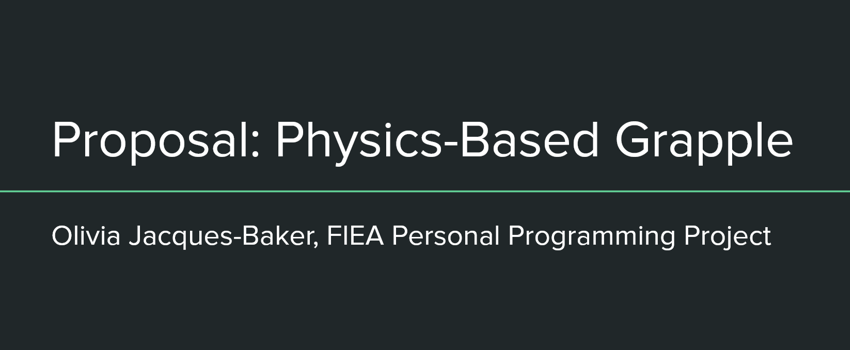
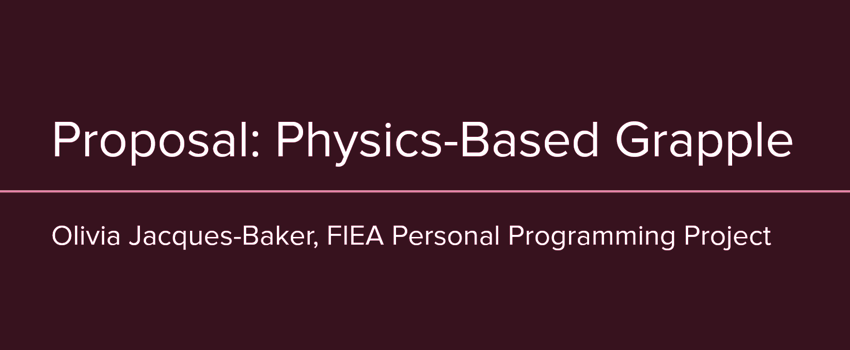
more portfolios, color changes

diff --git a/portfolios/cardAbilities.html b/portfolios/cardAbilities.html
@@ -1,0 +1,88 @@
+<!DOCTYPE html>
+<html lang="en">
+    <head>
+        <meta charset="utf-8" />
+        <meta name="viewport" content="width=device-width, initial-scale=1, shrink-to-fit=no" />
+        <meta name="description" content="" />
+        <meta name="author" content="" />
+        <title>Olivia Jacques-Baker - Game Dev Portfolio</title>
+        <!-- Favicon-->
+        <link rel="icon" type="../image/x-icon" href="../assets/favicon.ico" />
+        <!-- Core theme CSS (includes Bootstrap)-->
+        <link href="../css/styles.css" rel="stylesheet" />
+    </head>
+    <body>
+        <!-- Responsive navbar-->
+        <nav class="navbar navbar-expand-lg navbar-dark bg-dark">
+            <div class="container">
+                <a class="navbar-brand" href="../index.html">Olivia Jacques-Baker</a>
+                <button class="navbar-toggler" type="button" data-bs-toggle="collapse" data-bs-target="#navbarSupportedContent" aria-controls="navbarSupportedContent" aria-expanded="false" aria-label="Toggle navigation"><span class="navbar-toggler-icon"></span></button>
+                <div class="collapse navbar-collapse" id="navbarSupportedContent">
+                    <ul class="navbar-nav ms-auto mb-2 mb-lg-0">
+                        <li class="nav-item"><a class="nav-link active" href="../index.html">Portfolio</a></li>
+                        <li class="nav-item"><a class="nav-link" href="../about.html">About</a></li>
+                        <li class="nav-item"><a class="nav-link" href="../contact.html">Contact</a></li>
+                        <li class="nav-item"><a class="nav-link" aria-current="page" href="../devblog.html">Dev Blog</a></li>
+                    </ul>
+                </div>
+            </div>
+        </nav>
+        <!-- Page content-->
+        <div class="container mt-5">
+            <div class="row">
+                <div class="col-lg-8">
+                    <!-- Post content-->
+                    <article>
+                        <!-- Post header-->
+                        <header class="mb-4">
+                            <!-- Post title-->
+                            <h1 class="fw-bolder mb-1">Modular Card Ability System</h1>
+                            <!-- Post meta content-->
+                            <div class="text-muted fst-italic mb-2">Last worked on in May 2023</div>
+                        </header>
+                </div>
+                <div class="col-lg-8">
+                    <!-- Post content-->
+                    <article>
+                        <!-- Preview image figure-->
+                        <figure class="mb-4"><video class="img-fluid rounded" controls>
+                             <source src="../assets/cat.mp4" type="video/mp4">
+                             Your browser does not support the video tag.
+                             </video>
+                        </figure>
+                        <!-- Post content-->
+                        <section class="mb-5">
+                            <p class="fs-5 mb-4">This system was developed for Get in the Box Studio's ongoing Project Phoenix, which is a deck building roguelite. In order to be as efficient in card creation as possible, we designed cards to be composite objects made of one or many modular pieces. These modular pieces hold the actual functionality of the ability associated with the card. Combined with the way most components had any number of configurations - either from component specific options or by combination with the elemental status system the game had - this allowed many more unique ability cards to be made than programmers had bandwidth for.</p>
+                            <p class="fs-5 mb-4">An example of this modularity is as follows: a card may have a ranged base component with whatever projectile type is chosen, plus a headshot component that allows the ranged projectile to score headshots, plus a status application component that makes the ranged projectile stun any enemy it hits.</p>
+                            <p class="fs-5 mb-4">On top of my contributions to the design of this system and the many card components I created, I also created the card useage pipeline. Cards are stored in decks, which exhibit all the normal cycling and shuffling functionality, etc. The player choosing to "use" a deck will use the top card of that deck, which in turn activates all the card components within that card appropriately.</p>
+                            <h2 class="fw-bolder mb-4 mt-5">Specific Card Ability Components</h2>
+                            <p class="fs-5 mb-4">The list of specific card components, as well as examples of the sorts of ability cards they eventually created, is the following:</p>
+                            <p class="fs-5 mb-4"></p>
+                        </section>
+                    </article>
+                </div>
+                <!-- Side widgets-->
+                <div class="col-lg-4">
+                    <!-- Side widget-->
+                    <div class="card mb-4">
+                        <div class="card-header">Project Overview</div>
+                        <div class="card-body">Source Code: <span class="text-muted">Owned by Client</span></div>
+                        <div class="card-body">Languages and Tools: <span class="text-muted">C++, Unreal 5.1</span></div>
+                        <div class="card-body">Team Size: <span class="text-muted">15 total, 3 programmers</span></div>
+                        <div class="card-body">Personal Responsibilities: <span class="text-muted">Many "card components" that modularly create ability cards, the full card usage pipeline, card decks that cycle and shuffle, utility deck functions (swapping cards, searching on a card, etc).</span></div>
+                        <div class="card-body">Status: <span class="text-muted">Ongoing</span></div>
+                        <div class="card-body">Time Spent: <span class="text-muted">42 hours</span></div>
+                    </div>
+                </div>
+            </div>
+        </div>
+        <!-- Footer-->
+        <footer class="py-5 bg-dark">
+            <div class="container"><p class="m-0 text-center text-white">Copyright &copy; Olivia Jacques-Baker 2023</p></div>
+        </footer>
+        <!-- Bootstrap core JS-->
+        <script src="https://cdn.jsdelivr.net/npm/bootstrap@5.2.3/dist/js/bootstrap.bundle.min.js"></script>
+        <!-- Core theme JS-->
+        <script src="js/scripts.js"></script>
+    </body>
+</html>

diff --git a/css/styles.css b/css/styles.css
@@ -34,7 +34,7 @@
   --bs-gray-700: #495057;
   --bs-gray-800: #343a40;
   --bs-gray-900: #212529;
-  --bs-primary: #0d6efd;
+  --bs-primary: #b52645;
   --bs-secondary: #6c757d;
   --bs-success: #198754;
   --bs-info: #0dcaf0;
@@ -42,18 +42,18 @@
   --bs-danger: #dc3545;
   --bs-light: #f8f9fa;
   --bs-dark: #212529;
-  --bs-primary-rgb: 13, 110, 253;
+  --bs-primary-rgb: 181, 38, 69;
   --bs-secondary-rgb: 108, 117, 125;
   --bs-success-rgb: 25, 135, 84;
   --bs-info-rgb: 13, 202, 240;
   --bs-warning-rgb: 255, 193, 7;
   --bs-danger-rgb: 220, 53, 69;
   --bs-light-rgb: 248, 249, 250;
-  --bs-dark-rgb: 33, 37, 41;
+  --bs-dark-rgb: 56, 9, 19;
   --bs-white-rgb: 255, 255, 255;
   --bs-black-rgb: 0, 0, 0;
-  --bs-body-color-rgb: 33, 37, 41;
-  --bs-body-bg-rgb: 255, 255, 255;
+  --bs-body-color-rgb: 41, 33, 35;
+  --bs-body-bg-rgb: 247, 245, 245;
   --bs-font-sans-serif: system-ui, -apple-system, "Segoe UI", Roboto, "Helvetica Neue", "Noto Sans", "Liberation Sans", Arial, sans-serif, "Apple Color Emoji", "Segoe UI Emoji", "Segoe UI Symbol", "Noto Color Emoji";
   --bs-font-monospace: SFMono-Regular, Menlo, Monaco, Consolas, "Liberation Mono", "Courier New", monospace;
   --bs-gradient: linear-gradient(180deg, rgba(255, 255, 255, 0.15), rgba(255, 255, 255, 0));
@@ -61,8 +61,8 @@
   --bs-body-font-size: 1rem;
   --bs-body-font-weight: 400;
   --bs-body-line-height: 1.5;
-  --bs-body-color: #212529;
-  --bs-body-bg: #fff;
+  --bs-body-color: #292123;
+  --bs-body-bg: #f7f5f5;
   --bs-border-width: 1px;
   --bs-border-style: solid;
   --bs-border-color: #dee2e6;
@@ -73,7 +73,7 @@
   --bs-border-radius-xl: 1rem;
   --bs-border-radius-2xl: 2rem;
   --bs-border-radius-pill: 50rem;
-  --bs-link-color: #0d6efd;
+  --bs-link-color: #486085;
   --bs-link-hover-color: #0a58ca;
   --bs-code-color: #d63384;
   --bs-highlight-bg: #fff3cd;
@@ -2845,11 +2845,11 @@ textarea.form-control-lg {
 
 .btn-primary {
   --bs-btn-color: #fff;
-  --bs-btn-bg: #0d6efd;
-  --bs-btn-border-color: #0d6efd;
+  --bs-btn-bg: #9c445c;
+  --bs-btn-border-color: #823c4f;
   --bs-btn-hover-color: #fff;
-  --bs-btn-hover-bg: #0b5ed7;
-  --bs-btn-hover-border-color: #0a58ca;
+  --bs-btn-hover-bg: #823c4f;
+  --bs-btn-hover-border-color: #63303e;
   --bs-btn-focus-shadow-rgb: 49, 132, 253;
   --bs-btn-active-color: #fff;
   --bs-btn-active-bg: #0a58ca;

diff --git a/index.html b/index.html
@@ -93,11 +93,11 @@
                         <div class="col-lg-6">
                             <!-- Blog post-->
                             <div class="card mb-4">
-                                <a href="#!"><img class="card-img-top" src="assets/cardcompsImage.png" alt="..." /></a>
+                                <a href="portfolios/cardAbilities.html"><img class="card-img-top" src="assets/cardcompsImage.png" alt="..." /></a>
                                 <div class="card-body">
                                     <h2 class="card-title h4">Modular Card Ability System</h2>
                                     <p class="card-text">A modular system for building ability "cards" focused on flexibility and reusability. Created for Get in the Box Studio's ongoing Project Phoenix.</p>
-                                    <a class="btn btn-primary" href="#!">Read more</a>
+                                    <a class="btn btn-primary" href="portfolios/cardAbilities.html">Read more</a>
                                 </div>
                             </div>
                             <!-- Blog post-->

diff --git a/devblog.html b/devblog.html
@@ -84,8 +84,8 @@
                             <p>Languages and Tools: <span class="text-muted">C++, Unreal Engine 5</span></p>
                         </div>
                     </div>
-                <!--</div>-->
                 </div>
+            </div>
         </div>
         <!-- Footer-->
         <footer class="py-5 bg-dark">
